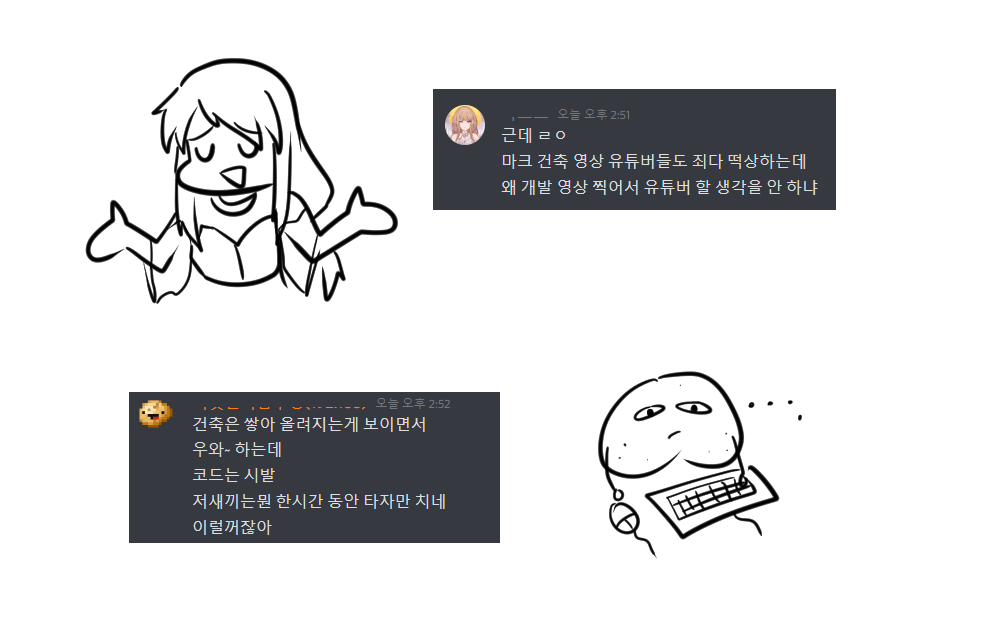
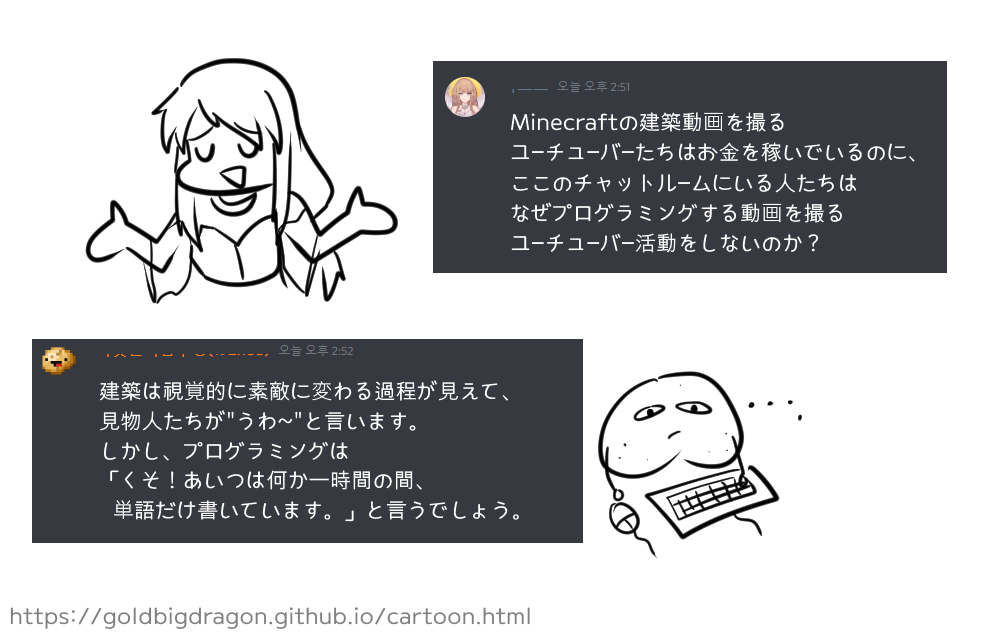
Daily touch

Changed region(s): [[0.434, 0.0902, 0.961, 0.4509], [0.031, 0.5111, 0.589, 0.8718], [0.0, 0.962, 0.527, 1.0]]

diff --git a/resources/data/cartoon/cartoon_list.js b/resources/data/cartoon/cartoon_list.js
@@ -8,11 +8,11 @@ const CARTOON_LIST = [
 			"ru":"Чат- комната разработчиков"
 		},
 		"translating":{
-			"en":"Translating (26/225)",
+			"en":"Translating (32/225)",
 			"kr":"번역 완료",
-			"jp":"翻訳中 (26/225)",
-			"cn":"翻译 (26/225)",
-			"ru":"Перевод (26/225)"
+			"jp":"翻訳中 (32/225)",
+			"cn":"翻译 (32/225)",
+			"ru":"Перевод (32/225)"
 		},
 		"uid":"developer",
 		"pages": [
